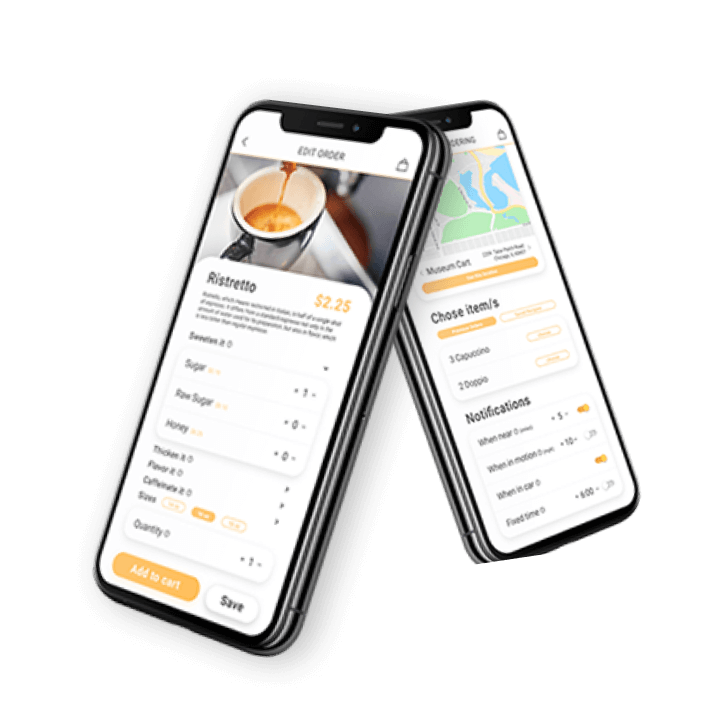
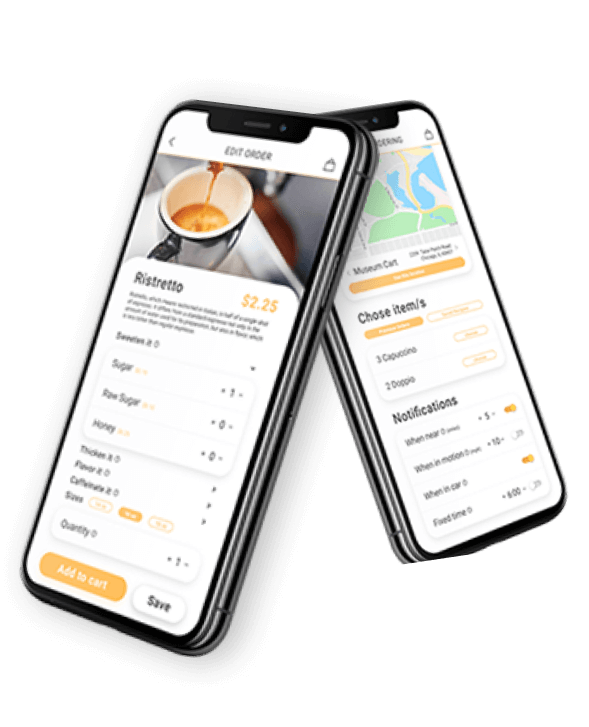
added service bar image slide

Changed region(s): [[0.0306, 0.121, 0.9779, 0.9078], [0.3667, 0.5144, 0.4278, 0.5447], [0.275, 0.7565, 0.3056, 0.7868]]

diff --git a/components/services/ServiceSlide.vue b/components/services/ServiceSlide.vue
@@ -1,0 +1,62 @@
+<template>
+  <div class="relative w-full h-96 bg-app-gray-2">
+    <ServiceSlideItem v-for="(serviceSlide, index) in serviceSlides" 
+      :key=serviceSlide.name
+      :serviceSlide=serviceSlide
+      :index=index
+      :currentIndex=currentIndex
+    />
+    <div class="w-full flex justify-center absolute top-0 mt-6">
+      <button
+        v-for="(serviceSlide, index) in serviceSlides"
+        :key=index
+        class="rounded-full w-3 h-3 focus:outline-none mx-2 transition duration-500"
+        :class="currentIndex === index ? 'bg-white' : 'border-2 border-white'"
+        @click="changeIndex(index-currentIndex)"
+      />  
+    </div>
+
+    <ServiceSlideButton direction="&lt;" @changeIndex="changeIndex" />
+    <ServiceSlideButton direction="&gt;" @changeIndex="changeIndex" />
+  </div>
+</template>
+
+<script>
+import { ref } from "@nuxtjs/composition-api";
+
+export default {
+  setup() {
+    const serviceSlides = [
+      {
+        name: 'Hallmar wine & distillery',
+        imageUrl: 'https://images.unsplash.com/photo-1487083990731-52aaad54939a?ixlib=rb-1.2.1&auto=format&fit=crop&w=1350&q=80'
+      },
+      {
+        name: 'Lorem ipsum dolor sit amet',
+        imageUrl: 'https://images.unsplash.com/photo-1535478044878-3ed83d5456ef?ixlib=rb-1.2.1&auto=format&fit=crop&w=1369&q=80'
+      },
+      {
+        name: 'consectetur adipiscing elit',
+        imageUrl: 'https://images.unsplash.com/photo-1483488792196-78bedff29c21?ixlib=rb-1.2.1&auto=format&fit=crop&w=1350&q=80'
+      },
+      {
+        name: 'something really really cool!',
+        imageUrl: 'https://images.unsplash.com/photo-1525877089115-11718b6724c8?ixlib=rb-1.2.1&auto=format&fit=crop&w=1267&q=80'
+      }
+    ];
+    const currentIndex = ref(0);
+
+    function changeIndex(value) {
+      currentIndex.value += value;
+      if (currentIndex.value >= serviceSlides.length) {
+        currentIndex.value = 0;
+      } else if (currentIndex.value < 0) {
+        currentIndex.value = serviceSlides.length - 1
+      }
+      console.log(currentIndex.value)
+    }
+
+    return { serviceSlides, currentIndex, changeIndex };
+  }
+}
+</script>

diff --git a/components/services/ServiceItem.vue b/components/services/ServiceItem.vue
@@ -1,13 +1,29 @@
 <template>
-  <div class="w-11/12 h-128 bg-blue-400 mb-32 flex rounded-2xl shadow-xl" :class="imageLeftSide ? 'flex-row' : 'flex-row-reverse'">
-    <!--img :src=imageUrl class="w-1/3 object-contain transform scale-150" :class="imageLeftSide ? 'origin-left' : 'origin-right'"-->
-    <img :src=imageUrl class="w-full object-contain transform scale-150">
-    <div class="w-full flex flex-col m-16">
-      <span class="text-7xl tracking-wide font-bold w-full" :class=textAlignStyle>
-        {{ title }}
-      </span>
-      <div class="w-full h-full flex items-center">
-        <p class="text-3xl" :class=textAlignStyle>{{ description }}</p>
+  <div class="relative w-full flex justify-center">
+    <img
+      src="/contact/leaves.png"
+      class="absolute z-0 w-64 lg:w-auto select-none transform -translate-y-24 lg:-translate-y-64 lg:scale-90"
+      :class="imageLeftSide ? 'translate-x-1/2 rotate-12' : '-translate-x-1/2 -rotate-12'"
+      draggable=false
+    />
+    <div
+      class="z-10 w-11/12 h-auto lg:h-128 bg-app-gray-2 rounded-2xl shadow-2xl mb-40 flex flex-col items-center" 
+      :class="imageLeftSide ? 'lg:flex-row' : 'lg:flex-row-reverse'"
+    >
+      <img 
+        :src=imageUrl
+        class="w-1/2 lg:w-1/2 lg:max-h-full object-contain select-none 
+               transform origin-bottom md:origin-center scale-125 lg:scale-150" 
+        draggable=false
+      >
+      <div class="relative z-20 w-full lg:w-1/2 flex flex-col my-12 text-center" :class=textAlignStyle>
+        <span class="text-6xl mb-3 tracking-wide font-bold w-full">
+          {{ title }}
+        </span>
+        <p 
+          class="text-2xl" 
+          :class="imageLeftSide ? 'lg:pr-16' : 'lg:pl-16'">{{ description }}
+        </p>
       </div>
     </div>
   </div>
@@ -24,7 +40,7 @@ export default {
   },
   setup(props) {
     console.log(props.title, props.imageLeftSide, props.imageUrl);
-    const textAlignStyle = props.imageLeftSide ? "text-left" : "text-right"
+    const textAlignStyle = props.imageLeftSide ? "lg:text-left" : "lg:text-right"
 
     return { textAlignStyle }
   }

diff --git a/components/services/Services.vue b/components/services/Services.vue
@@ -1,16 +1,19 @@
 <template>
   <div class="w-full z-20 relative">
-    <div class="text-white w-5/12 ml-56 mt-12 mb-64">
-      <span class="text-9xl font-hibana">Services</span>
-      <p class="text-xl mt-2 mb-10 tracking-wide">Lorem ipsum dolor sit amet consectetur adipiscing elit, fames semper vehicula velit dapibus in iaculis. Eros cursus lobortis leo hendrerit faucibus parturient sagittis justo curabitur lacinia ridiculus class.</p>
-      <button class="px-16 py-3 tracking-wider font-bold text-2xl text-app-green-1 border-4 border-app-green-1 rounded-full focus:outline-none">Check our Packages</button>
+    <div class="text-white w-full lg:w-5/12 flex flex-col items-center lg:items-start lg:ml-56 mt-12 mb-48 text-center lg:text-left">
+      <span class="text-7xl md:text-9xl font-hibana">Services</span>
+      <p class="text-xl px-8 lg:px-0 mt-2 mb-10 tracking-wide">Lorem ipsum dolor sit amet consectetur adipiscing elit, fames semper vehicula velit dapibus in iaculis. Eros cursus lobortis leo hendrerit faucibus parturient sagittis justo curabitur lacinia ridiculus class.</p>
+      <a
+        href="#services"
+        class="px-8 md:px-16 py-3 tracking-wider font-bold text-2xl text-app-green-1 border-4 border-app-green-1 rounded-full cursor-pointer focus:outline-none"
+      >
+        Check our Packages
+      </a>
     </div>
-    <div class="w-full h-64 bg-black">
-      bar thingy
-    </div>
-    <div class="my-16 w-full flex flex-col items-center py-12 overflow-hidden">
+    <ServiceSlide />
+    <div id="services" class="py-40 w-full flex flex-col items-center overflow-hidden">
       <ServiceItem v-for="serviceItem in serviceItems" 
-        :key="serviceItem.title" 
+        :key=serviceItem.title
         :title=serviceItem.title 
         :description=serviceItem.description 
         :imageUrl=serviceItem.imageUrl 

diff --git a/components/services/ServiceSlideButton.vue b/components/services/ServiceSlideButton.vue
@@ -1,0 +1,40 @@
+<template>
+  <div 
+    class="absolute inset-y-0 h-full flex justify-center items-center text-black text-4xl select-none" 
+    :class="direction === '&lt;' ? 'left-0' : 'right-0'"
+    draggable=false
+  >
+    <span
+      @click="changeIndex"
+      class="w-auto px-6 h-24 cursor-pointer flex items-center justify-center
+             bg-transparent hover:bg-opacity-75 hover:bg-app-gray-1 transition duration-200 ease-in-out"
+    >
+      <!-- a really poor way to implement this. direction should probably be -1 or 1 (based on direction), and an icon should be used below (especially since a background is needed)--> 
+      {{ direction }}
+    </span>
+  </div>
+</template>
+
+<script>
+export default {
+  props: {
+    direction: String
+  },
+  setup(props, { emit }) {
+    function changeIndex() {
+      console.log(props.direction)
+      let value;
+      if (props.direction === '<') {
+        value = -1;
+      } else if (props.direction === '>') {
+        value = 1;
+      }
+      emit('changeIndex', value)
+    };
+
+    return { changeIndex }
+  }
+  // emit an event ig
+}
+</script>
+

diff --git a/components/services/ServiceSlideItem.vue b/components/services/ServiceSlideItem.vue
@@ -1,0 +1,18 @@
+<template>
+  <div class="relative w-full h-full" :class="currentIndex === index ? 'block' : 'hidden'">
+    <img :src=serviceSlide.imageUrl class="w-full max-h-full object-cover" draggable=false />
+    <div class="absolute bottom-0 py-2 w-full flex flex-col items-center">
+      <span class="font-bold text-4xl mb-2 text-center">{{ serviceSlide.name }}</span>
+    </div>
+  </div>
+</template>
+
+<script>
+export default {
+  props: {
+    serviceSlide: Object,
+    index: Number,
+    currentIndex: Number
+  }
+}
+</script>

diff --git a/tailwind.config.js b/tailwind.config.js
@@ -16,6 +16,7 @@ module.exports = {
   theme: {
     extend: {
       spacing: {
+        96: '24rem',
         128: '32rem',
       },
       colors: {
